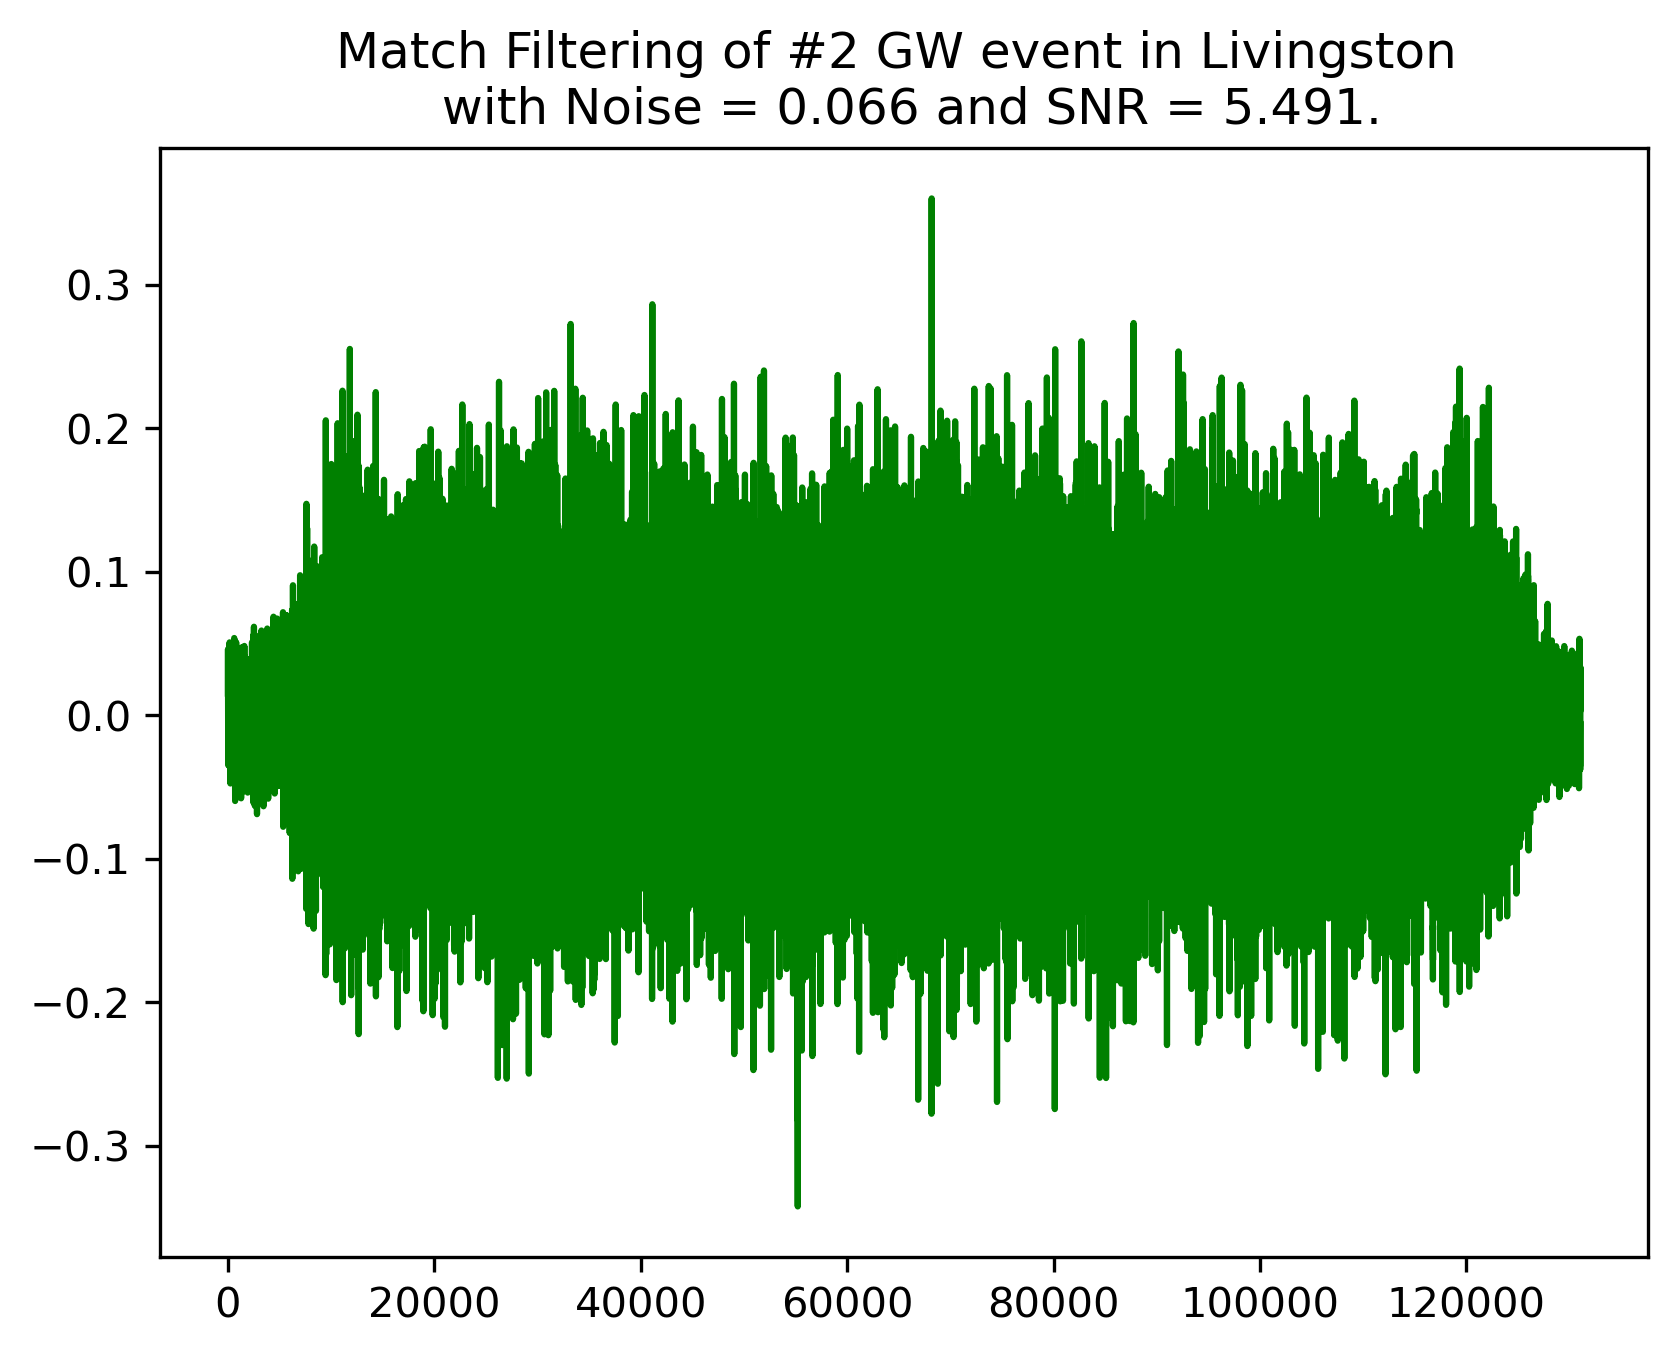
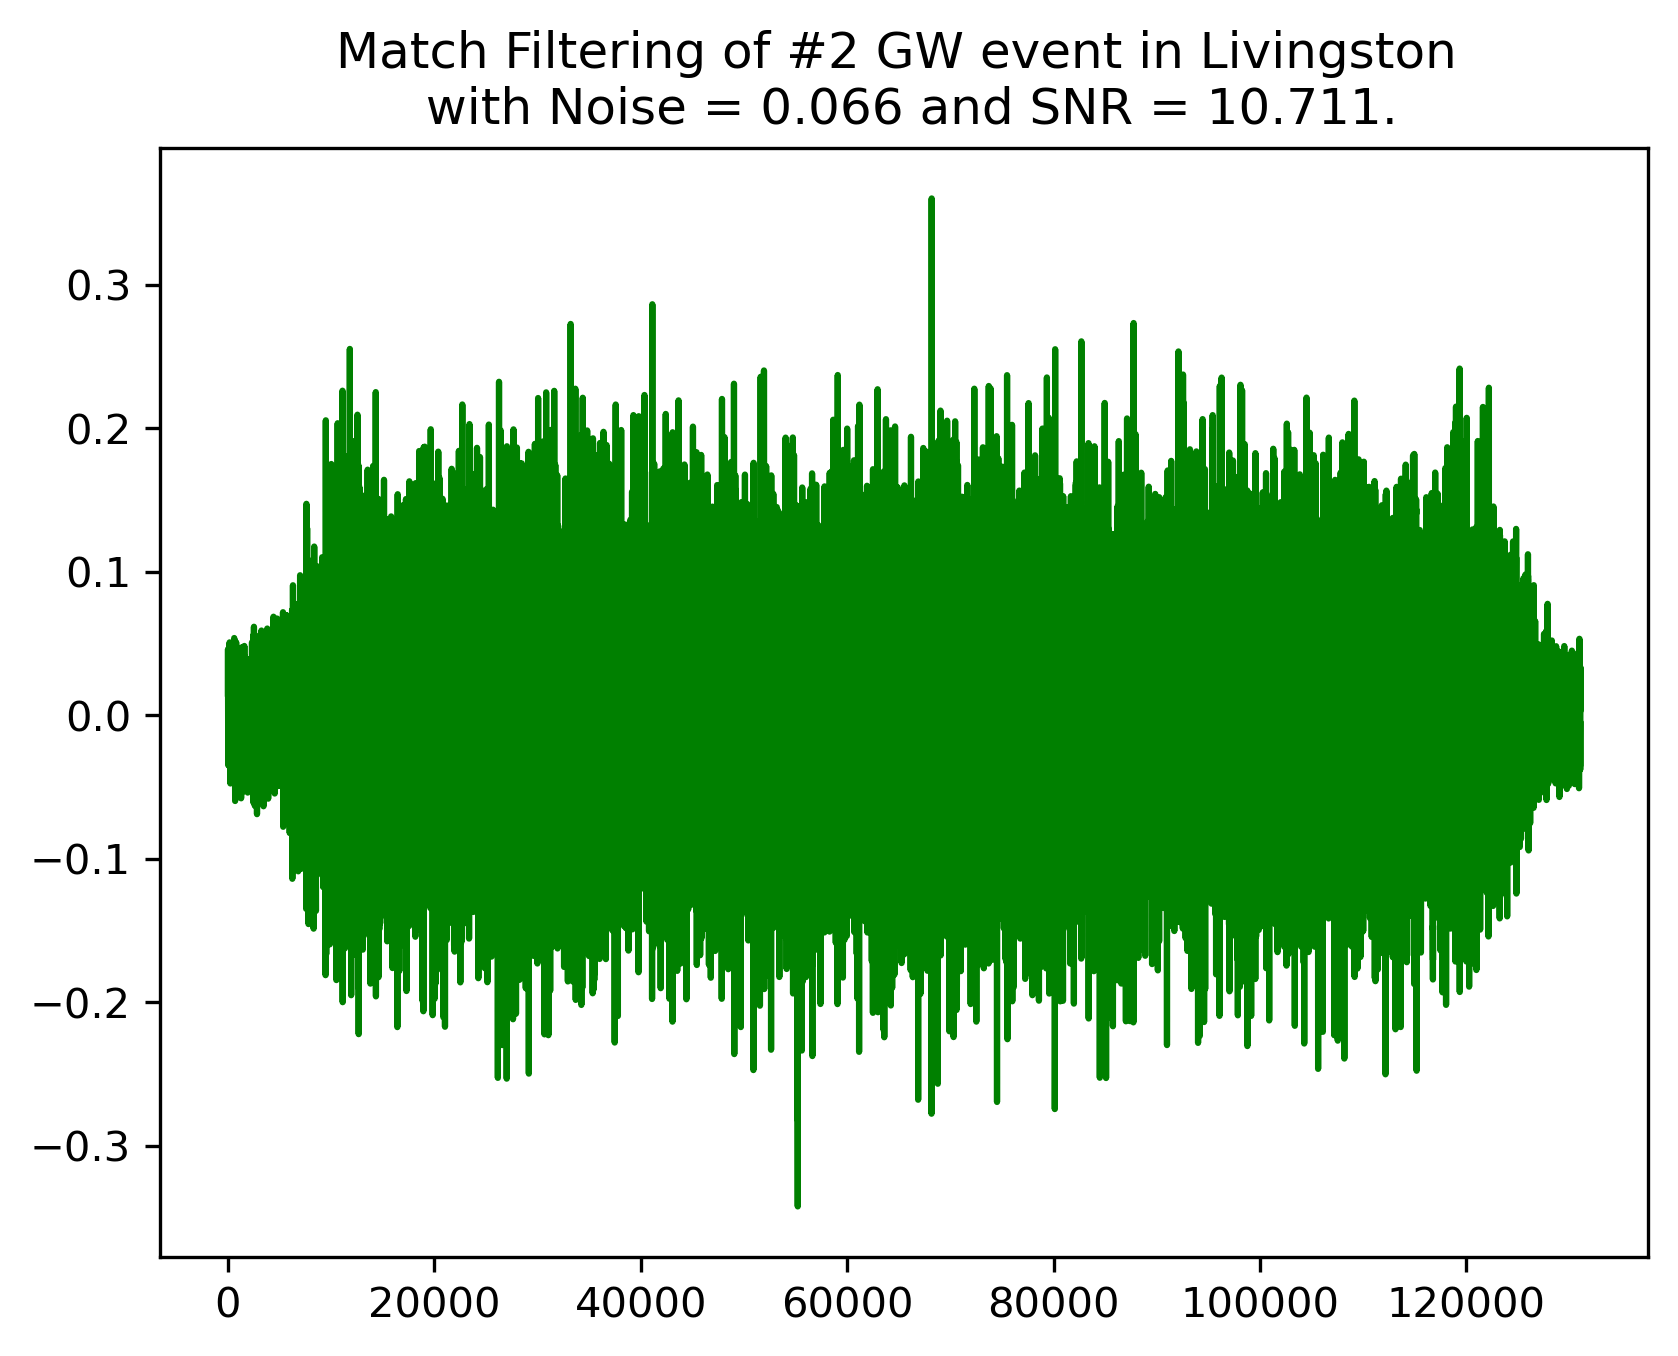
0411

Changed region(s): [[0.2479, 0.0619, 0.8367, 0.0929]]

diff --git a/problem_sets/ps6/ps6_1.py b/problem_sets/ps6/ps6_1.py
@@ -132,10 +132,10 @@ SNR_l = [0]*4
 for i in range(4):
     Noise[i] = np.std(xcorr2[i, :-2000])
     Noise_l[i] = np.std(xcorrl[i, :-2000])
-    SNR[i] = np.max(xcorr2[i]) / Noise[i]
-    SNR_l[i] = np.max(xcorrl[i]) / Noise_l[i]
-    print(f'#{i + 1} GW event at Hanford has Noise of: {Noise[i]} and SNR = {SNR[i]}')
-    print(f'#{i + 1} GW event at Livingston has Noise of: {Noise_l[i]} and SNR = {SNR_l[i]}')
+    SNR[i] = (np.max(xcorr2[i]) - np.min(xcorr2[i])) / Noise[i]
+    SNR_l[i] = (np.max(xcorrl[i]) + np.abs(np.min(xcorrl[i]))) / Noise_l[i]
+    print(f'#{i + 1} GW event at Hanford has Noise of: {Noise[i]:.3f} and SNR = {SNR[i]:.3f}')
+    print(f'#{i + 1} GW event at Livingston has Noise of: {Noise_l[i]:.3f} and SNR = {SNR_l[i]:.3f}')
 
 for i in range(4):
     plt.plot(np.fft.fftshift(xcorr2[i]),color = 'brown')
@@ -165,8 +165,8 @@ for i in range(4):
     Noise_al[i] = np.std(sigma_l[i, :-2000])
     SNR_ah[i] = np.max(sigma_h[i]) / Noise_ah[i]
     SNR_al[i] = np.max(sigma_l[i]) / Noise_al[i]
-    print(f'#{i + 1} Noise Model at Hanford has Noise of: {Noise_ah[i]} and SNR = {SNR_ah[i]}')
-    print(f'#{i + 1} Noise Model at Livingston has Noise of: {Noise_al[i]} and SNR = {SNR_al[i]}')
+    print(f'#{i + 1} Noise Model at Hanford has Noise of: {Noise_ah[i]:.3f} and SNR = {SNR_ah[i]:.3f}')
+    print(f'#{i + 1} Noise Model at Livingston has Noise of: {Noise_al[i]:.3f} and SNR = {SNR_al[i]:.3f}')
 
 for i in range(4):
     plt.plot(np.fft.fftshift(sigma_h[1]))
